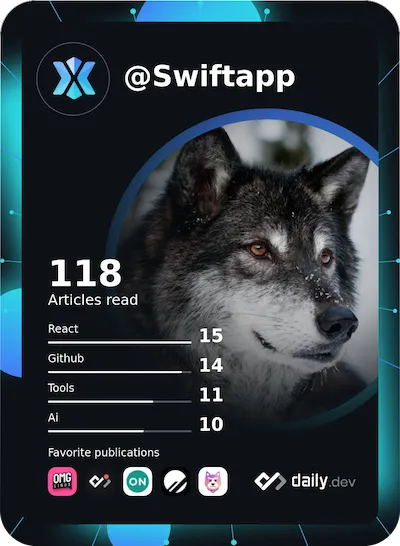
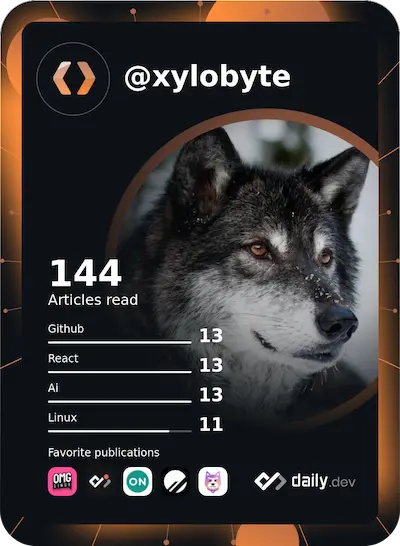
Update to my new username

diff --git a/src/components/sections/home/AboutSection.vue b/src/components/sections/home/AboutSection.vue
@@ -78,14 +78,14 @@
                 <h3 class="chakra-petch f-large p-absolute">Liens</h3>
 
                 <ButtonComponent :icon="Github" background-color="50, 50, 50" class="flex a-center j-center" color="255, 255, 255"
-                                 link="https://github.com/Swiftapp-hub" text="GitHub"/>
+                                 link="https://github.com/Xylobyte" text="GitHub"/>
                 <ButtonComponent :icon="Linkedin" background-color="10, 101, 192" class="flex a-center j-center" color="255, 255, 255"
                                  link="https://www.linkedin.com/in/nantsa-montillet"
                                  text="LinkedIn"/>
                 <ButtonComponent background-color="242, 187, 19" class="flex a-center j-center" color="255, 255, 255"
                                  link="https://www.codingame.com/profile/6a09b7f196bb6fae61ca49b75d3a8e5b6810864"
                                  text="CondinGame"/>
-                <ButtonComponent background-color="0, 0, 0" class="flex a-center j-center" color="255, 255, 255" link="https://app.daily.dev/Swiftapp"
+                <ButtonComponent background-color="0, 0, 0" class="flex a-center j-center" color="255, 255, 255" link="https://app.daily.dev/xylobyte"
                                  text="Daily.dev"/>
             </div>
         </div>

diff --git a/src/components/sections/home/HeadTitleSection.vue b/src/components/sections/home/HeadTitleSection.vue
@@ -4,7 +4,7 @@
         </div>
 
         <div class="daily-dev only-desktop flex">
-            <a ref="dailydev" :style="{transform: cardTransform, transition: 'transform 250ms ease-out'}" href="https://app.daily.dev/Swiftapp">
+            <a ref="dailydev" :style="{transform: cardTransform, transition: 'transform 250ms ease-out'}" href="https://app.daily.dev/xylobyte">
                 <img alt="Nantsa's Dev Card" height="546" src="@/assets/images/daily_dev.webp" width="400"/>
             </a>
         </div>
@@ -33,7 +33,7 @@
             <h2 class="jura f-large">Développeur Web - Full Stack</h2>
 
             <div class="btn-link flex row">
-                <ButtonComponent :icon="Github" background-color="255, 255, 255" color="0, 0, 0" link="https://github.com/Swiftapp-hub"
+                <ButtonComponent :icon="Github" background-color="255, 255, 255" color="0, 0, 0" link="https://github.com/Xylobyte"
                                  text="GitHub"/>
                 <ButtonComponent :icon="Linkedin" background-color="10, 101, 192" class="second" color="255, 255, 255"
                                  link="https://www.linkedin.com/in/nantsa-montillet" text="LinkedIn"/>

diff --git a/src/components/sections/home/ContactSection.vue b/src/components/sections/home/ContactSection.vue
@@ -47,7 +47,7 @@
                 <ButtonComponent v-motion-slide-visible-once-right :delay="250" :icon="Phone" background-color="40, 40, 40"
                                  class="flex a-center j-center" color="255, 255, 255" link="tel:+33749386838" text="07 49 38 68 38"/>
                 <ButtonComponent v-motion-slide-visible-once-right :icon="AtSign" background-color="40, 40, 40" class="flex a-center j-center"
-                                 color="255, 255, 255" link="mailto:nantsa12@gmail.com" text="nantsa12@gmail.com"/>
+                                 color="255, 255, 255" link="mailto:nantsamontillet@xylobyte.com" text="nantsamontillet@xylobyte.com"/>
             </div>
         </div>
     </section>
